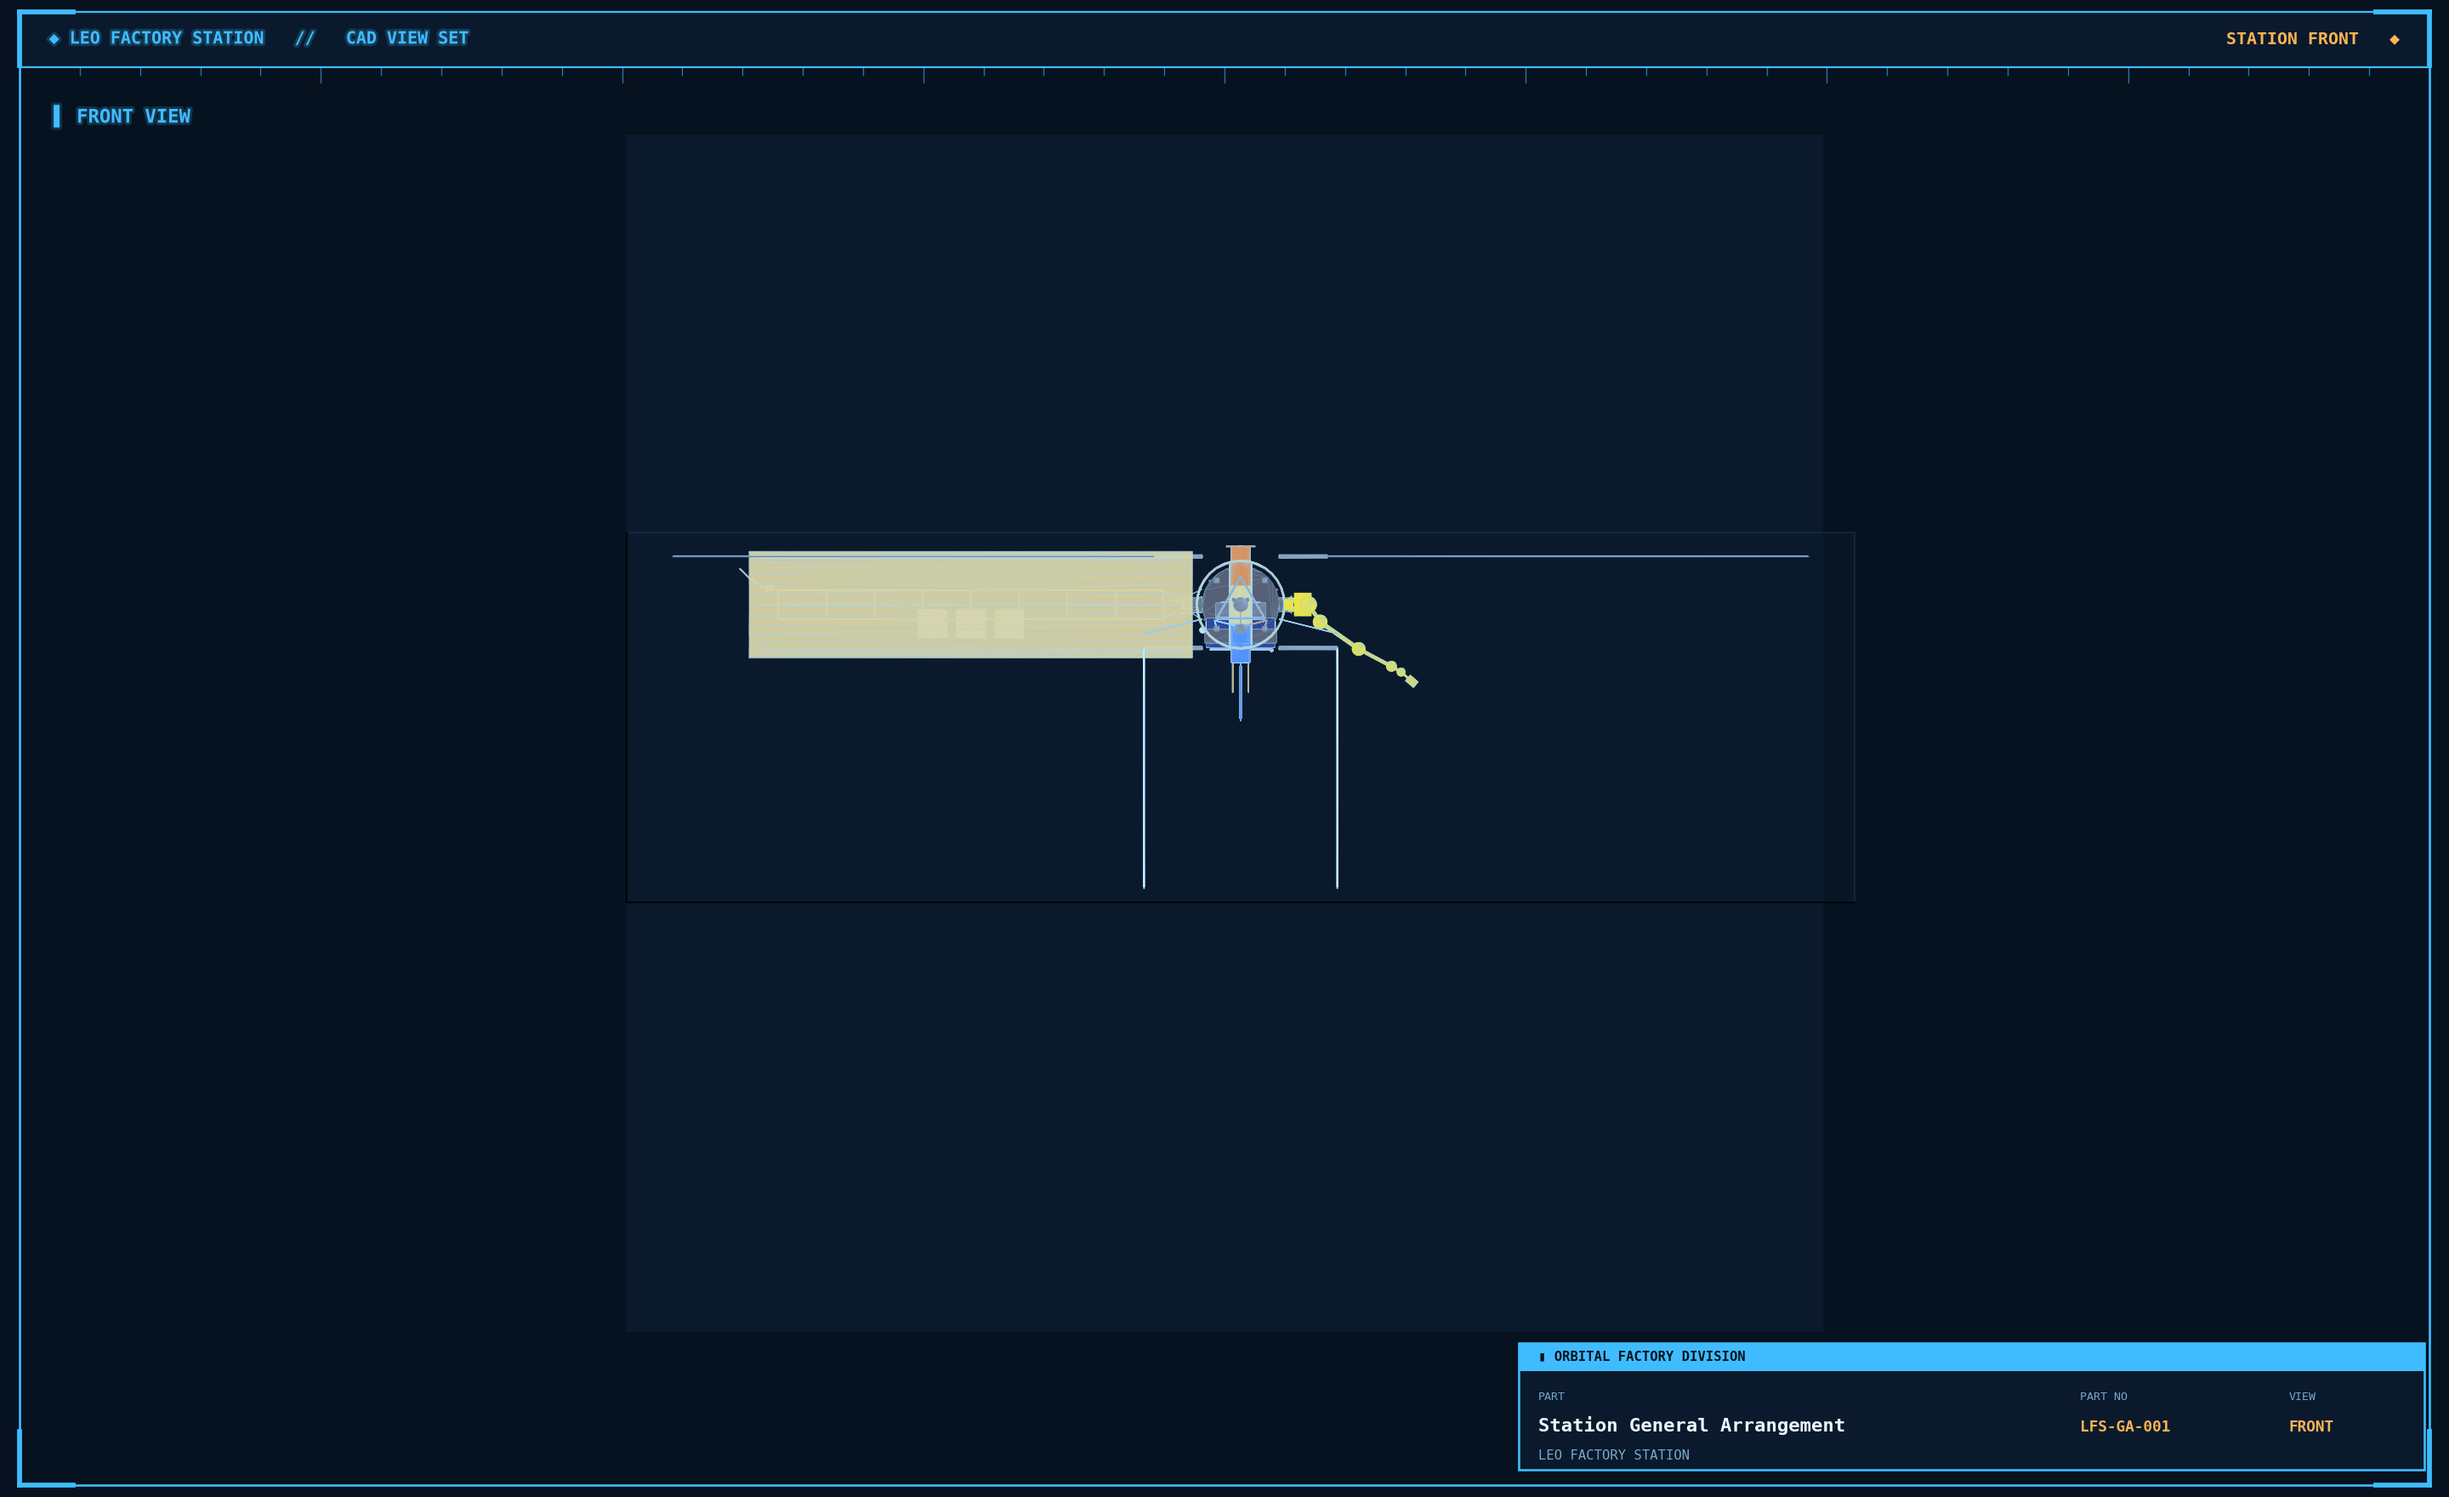
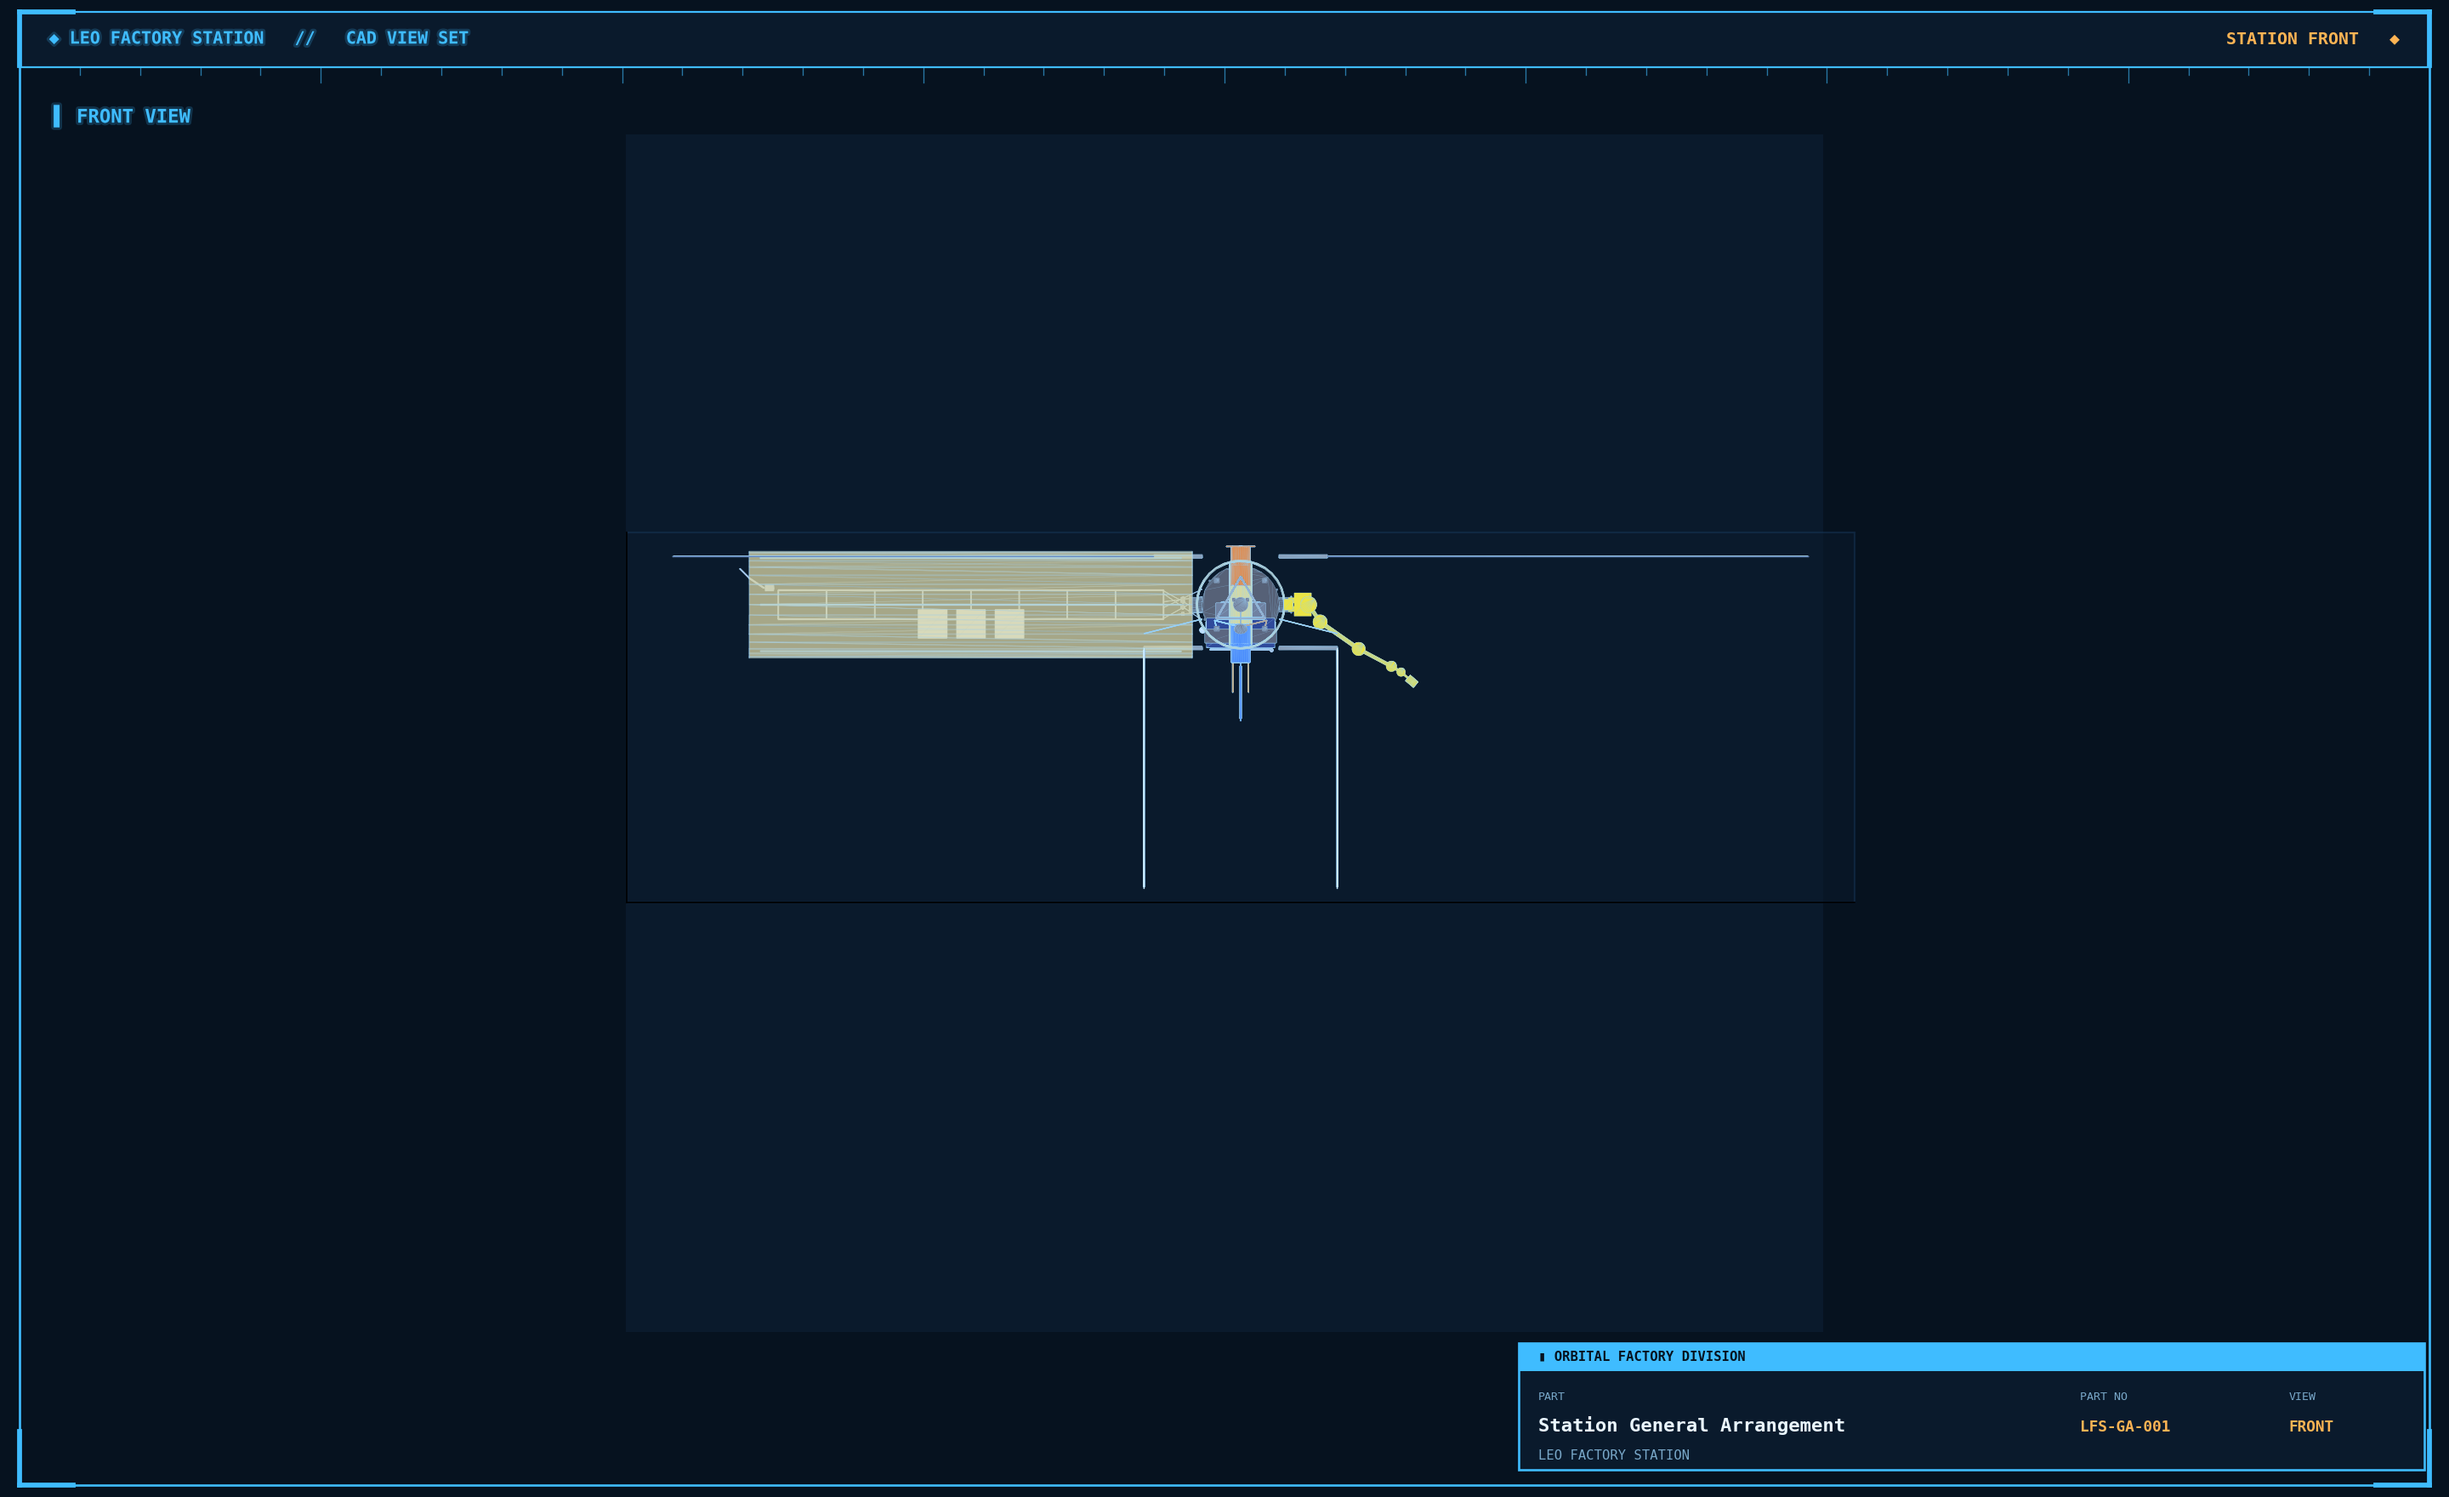
Fix microgravity CAD views obscured by hull
The microgravity hull (semi-transparent yellow whipple shield) was
covering the sub-truss and pods in the focus renders for two reasons:
the alpha floor was clamping it to 55% opacity, and it was in the
focus part-set. Drop the alpha floor so source transparency is
respected, sort pieces opaque-first so transparent jackets layer
correctly, and exclude microgravity_hull from the microgravity focus
group (it remains in the whole-station views).

Changed region(s): [[0.2812, 0.3438, 0.5, 0.4375]]

diff --git a/cad_views.py b/cad_views.py
@@ -184,6 +184,9 @@ def render_view(pieces, view, out_path, sheet_title,
         pieces = [p for p in pieces if p[3] in focus_only]
     if not pieces:
         return
+    # Draw opaque parts first, transparent parts last so the hulls /
+    # MLI jackets layer correctly over their contents.
+    pieces = sorted(pieces, key=lambda p: -p[2][3])
 
     all_verts = np.concatenate([p[0] for p in pieces], axis=0)
     cmin = all_verts.min(0)
@@ -211,12 +214,15 @@ def render_view(pieces, view, out_path, sheet_title,
     for verts, tris, rgba, _name in pieces:
         triangles = verts[tris]
         r, g, b, a = rgba
-        # Brighten cool, slightly desaturate, and add glowing edges
+        # Brighten cool, slightly desaturate, and add glowing edges.
+        # Respect the source alpha so semi-transparent parts (hulls,
+        # MLI jackets, etc.) stay see-through instead of occluding
+        # the components they protect.
         face = (
             min(1.0, r * 0.85 + 0.10),
             min(1.0, g * 0.90 + 0.13),
             min(1.0, b * 0.95 + 0.18),
-            max(0.55, a),
+            a,
         )
         coll = Poly3DCollection(
             triangles,
@@ -274,9 +280,11 @@ PART_GROUPS = {
     "microgravity": {
         "name": "Microgravity Sub-Truss",
         "no":   "LFS-MG-001",
+        # Hull omitted on purpose so the sub-truss / pods / soft tethers
+        # are visible. Cf. station_* views which include the hull.
         "parts": {
             "microgravity_subtruss", "microgravity_pods",
-            "microgravity_isolation_mounts", "microgravity_hull",
+            "microgravity_isolation_mounts",
         },
     },
 }
